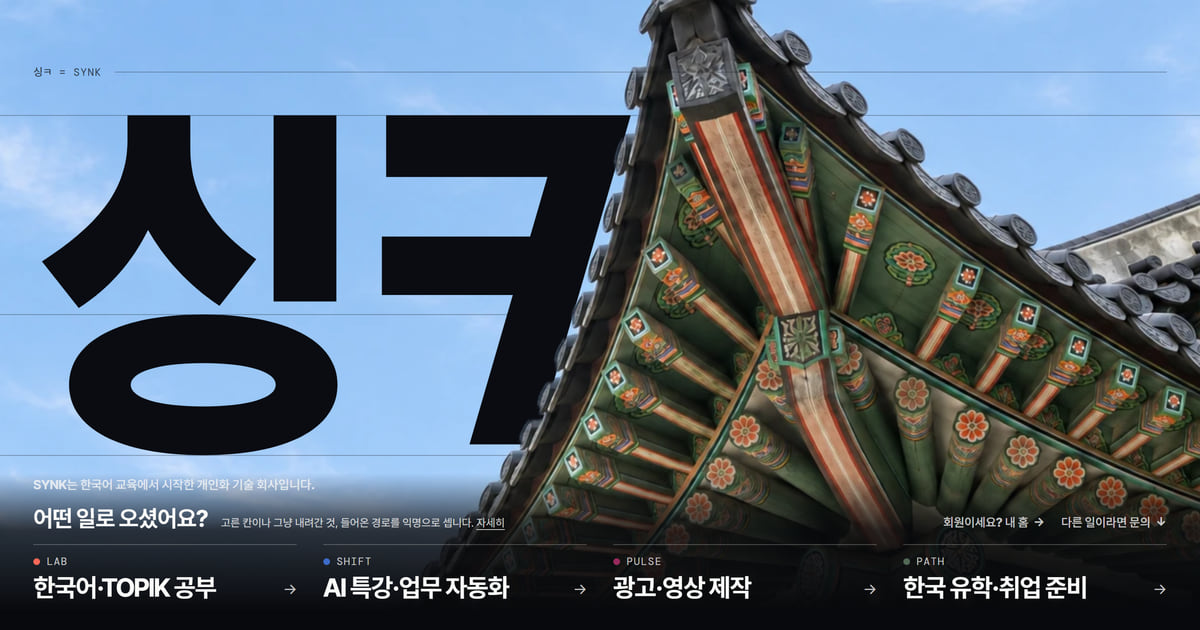
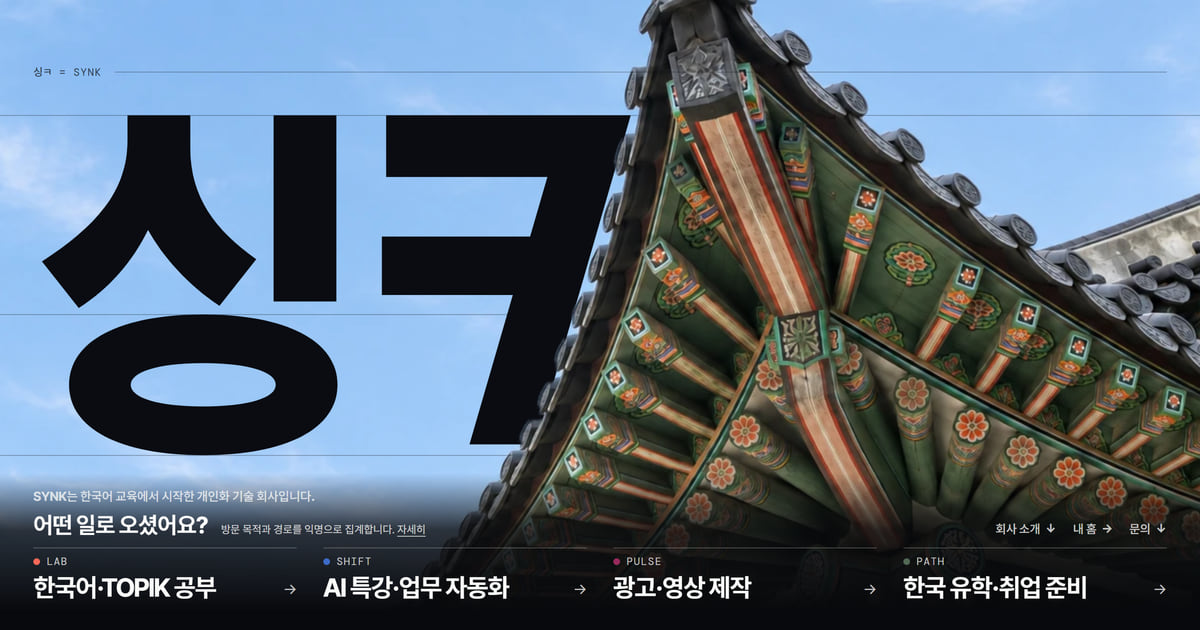
홈 입구 공개 뒤 검수 반영: 작은 줄에 「회사 소개」를 더하고 「내 홈 · 문의」로 줄임, 안내 글 「방문 목적과 경로를 익명으로 집계합니다.」, 입구를 지나 내려갔다가 돌아와 고른 칸도 「내려갔다가 칸을 고름」으로 세기, 들어온 곳에 X · 링크드인, 작은 노트북 여백, 공유 그림 다시 구움, 처리방침 방문 통계 문장(한 · 영)

Changed region(s): [[0.0308, 0.754, 0.4933, 0.8746], [0.7708, 0.8143, 0.9867, 0.8746], [0.5242, 0.8444, 0.74, 0.8746]]

diff --git a/privacy/index.html b/privacy/index.html
@@ -210,7 +210,7 @@
     <p>공개 안내 질문창은 방문자의 브라우저 안에서 질문과 공개 자료를 대조하여 답변을 표시합니다. 질문이나 대화 내용을 SYNK의 서버 또는 외부 AI 서비스로 전송하는 기능은 없으며, 대화 내용을 쿠키나 브라우저 저장소에 저장하지 않습니다. 화면의 대화는 새로 시작하거나 페이지를 새로고침하면 사라집니다.</p>
     <p>질문창의 입력을 학생 기록에 연결하거나 상담 신청으로 접수하거나 AI 모델 학습에 사용하는 기능은 없습니다. 이름·전화번호·학생 기록·비밀번호 등 개인정보나 민감한 내용은 입력하지 말아 주세요. 이 안내가 입력한 개인정보를 자동으로 가려 준다는 뜻은 아닙니다.</p>
     <p>외부 방문자 분석 서비스 Microsoft Clarity는 PULSE 소개 페이지(synk.im/pulse) 한 곳에서만 사용합니다(아래 설명). 그 밖의 기업 소개 홈페이지에는 광고 회사의 추적 스크립트나 외부 방문자 분석 서비스를 설치하지 않았습니다. SYNK가 직접 세는 기록은 아래 두 가지뿐입니다. 웹페이지와 파일을 전달하는 접속 정보의 처리는 이와 별개이며, synk.im의 호스팅 제공자인 GitHub의 개인정보 관련 안내를 함께 확인해 주세요.</p>
-    <p id="visitor-stats"><strong>홈 첫 화면 방문 통계(2026년 10월 30일부터):</strong> 첫 화면의 「어떤 일로 오셨어요?」에서 칸을 고르거나, 고르지 않고 아래로 내려가면 그 탭에서 한 번만 다음 항목을 SYNK의 Google Forms 기록 양식으로 보냅니다 — 칸을 골랐는지와 고른 칸, 보고 있던 쪽의 언어, 들어온 곳의 종류(직접·검색·인스타그램 같은 분류 이름), 화면 너비로 나눈 기기 종류(휴대폰 또는 컴퓨터·태블릿), 링크에 붙은 캠페인 꼬리표(예: ?from=ig-bio), 화면 버전. Google Forms가 받은 시각을 함께 기록합니다. 보내는 항목에 이름·이메일·IP 주소·쿠키·기기 식별값·전체 주소·이전 사이트 주소는 넣지 않으며, 방문자를 서로 잇는 번호도 만들지 않습니다. 다만 브라우저가 Google Forms로 직접 보내므로, 그 연결에 따르는 접속 정보(IP 주소 등)의 처리는 <a href="https://policies.google.com/privacy">Google 개인정보 안내</a>를 따릅니다. 같은 탭에서 두 번 세지 않도록 그 탭의 저장소(sessionStorage)에 표시 하나를 두고, 탭을 닫으면 사라집니다. 방문자가 무엇을 찾는지 알아 첫 화면과 안내를 고치는 데만 쓰고, 기록은 운영 계정만 봅니다. 브라우저의 전역 개인정보 신호(Global Privacy Control)가 켜져 있으면 보내지 않습니다. 홈 주소에 ?nocount=1을 붙여(synk.im/?nocount=1) 한 번 열면 그 브라우저에서는 보내지 않고(이 설정만 기기 저장소에 남습니다), synk.im/?nocount=0으로 되돌립니다. 사람을 알아볼 수 없는 기록이라 따로 보관 기한을 두지 않으며, 통계에 더 쓰지 않게 되면 지웁니다.</p>
+    <p id="visitor-stats"><strong>홈 첫 화면 방문 통계(2026년 10월 30일부터):</strong> 첫 화면의 「어떤 일로 오셨어요?」에서 칸을 고르거나, 고르지 않고 아래로 내려가면 그 탭에서 각각 한 번만 다음 항목을 SYNK의 Google Forms 기록 양식으로 보냅니다(내려갔다가 돌아와 고르면 그렇게 표시한 기록이 한 번 더 갑니다) — 칸을 골랐는지와 고른 칸, 보고 있던 쪽의 언어, 들어온 곳의 종류(직접·검색·인스타그램 같은 분류 이름), 화면 너비로 나눈 기기 종류(휴대폰 또는 컴퓨터·태블릿), 링크에 붙은 캠페인 꼬리표(예: ?from=ig-bio), 화면 버전. Google Forms가 받은 시각을 함께 기록합니다. 보내는 항목에 이름·이메일·IP 주소·쿠키·기기 식별값·전체 주소·이전 사이트 주소는 넣지 않으며, 방문자를 서로 잇는 번호도 만들지 않습니다. 다만 브라우저가 Google Forms로 직접 보내므로, 그 연결에 따르는 접속 정보(IP 주소 등)의 처리는 <a href="https://policies.google.com/privacy">Google 개인정보 안내</a>를 따릅니다. 같은 탭에서 같은 기록을 두 번 보내지 않도록 그 탭의 저장소(sessionStorage)에 표시 하나를 두고, 탭을 닫으면 사라집니다. 방문자가 무엇을 찾는지 알아 첫 화면과 안내를 고치는 데만 쓰고, 기록은 운영 계정만 봅니다. 브라우저의 전역 개인정보 신호(Global Privacy Control)가 켜져 있으면 보내지 않습니다. 홈 주소에 ?nocount=1을 붙여(synk.im/?nocount=1) 한 번 열면 그 브라우저에서는 보내지 않고(이 설정만 기기 저장소에 남습니다), synk.im/?nocount=0으로 되돌립니다. 사람을 알아볼 수 없는 기록이라 따로 보관 기한을 두지 않으며, 통계에 더 쓰지 않게 되면 지웁니다.</p>
     <p><strong>SNS 게시물 링크 기록:</strong> SYNK의 SNS 게시물에 붙은 링크 번호(주소의 synk_ref)로 들어온 경우에만, 그 번호와 방문·체험 시작·가입·문의가 있었는지를 SYNK 회사 서버(workspace.synk.im)로 보내 어느 게시물이 방문으로 이어졌는지 셉니다. 이름·이메일·글 내용·전체 주소는 보내지 않고, 링크 번호는 그 탭에서만 기억합니다.</p>
     <p id="pulse-clarity"><strong>PULSE 소개 페이지 이용 기록(Microsoft Clarity, 2026년 10월 31일부터):</strong> PULSE 소개 페이지(synk.im/pulse) 한 곳에서만, 안내와 광고를 개선하기 위해 Microsoft의 방문자 분석 서비스 Clarity를 사용합니다. 이 페이지를 보는 동안 브라우저가 다음 정보를 Microsoft 서버로 바로 보냅니다 — 스크롤 깊이, 누른 위치, 머문 시간, 마우스·터치 움직임(세션 재생·히트맵), 들어온 주소와 링크 꼬리표, 이전 사이트 주소, 브라우저·운영체제·기기 종류, 국가·도시 수준의 대략적 위치. 브라우저가 직접 보내므로 그 요청에 딸린 접속 정보(IP 주소 등)도 Microsoft가 처리합니다. 방문을 잇기 위해 제1자 쿠키(_clck, _clsk)와 제3자 쿠키(CLID, MUID, ANONCHK, MR, SM)를 사용합니다. 입력칸의 내용은 보내지 않고, 안내 질문창에 적은 질문과 화면의 대화도 가려서 보내지 않습니다. 페이지 글 가운데 숫자와 이메일 주소도 가려집니다. SYNK는 이 기록을 이 페이지를 고치고 광고 성과를 확인하는 데만 쓰며, 학생 기록이나 SYNK 계정과 연결하지 않습니다. 받는 곳은 Microsoft Corporation(미국)이고 Microsoft Azure에 저장됩니다. 세션 재생은 30일(일부 표본은 최대 9개월), 히트맵은 9개월 보관됩니다. 브라우저에서 쿠키를 차단하면 방문을 잇는 쿠키만 저장되지 않고 전송은 계속될 수 있습니다. 전송까지 막으려면 추적 차단 도구로 clarity.ms를 차단해 주세요. 막아도 페이지 이용에는 지장이 없습니다. Microsoft의 처리는 <a href="https://www.microsoft.com/privacy/privacystatement">Microsoft 개인정보처리방침</a>을 따르며, 쿠키 설명은 <a href="https://learn.microsoft.com/en-us/clarity/setup-and-installation/clarity-cookies">Clarity 쿠키 안내</a>에서 볼 수 있습니다.</p>
     <p>브라우저의 AI 도우미나 확장 프로그램을 직접 사용하는 경우에는 해당 도구의 정보 처리 기준이 별도로 적용됩니다. 답변의 복사 기능을 누르면 선택한 답변이 기기의 클립보드에 들어갑니다.</p>
@@ -221,7 +221,7 @@
       <p>This notice covers the SYNK company website and its public information guide. Separate services such as the Korean-name experience, Messenger consultation, application forms and student or guardian learning services have their own processing scope.</p>
       <p>The guide compares questions with public material in your browser. It has no function that sends questions or conversations to SYNK servers or external AI services, stores them in cookies or browser storage, connects them to student records, submits consultation requests or uses them to train AI models. On-screen conversations are cleared when you restart the guide or reload the page. Do not enter personal or sensitive information; the guide does not automatically redact it.</p>
       <p>The third-party visitor analytics service Microsoft Clarity is used on the PULSE page (synk.im/pulse) only, as described below. The rest of the company website has no advertising trackers or third-party visitor analytics. SYNK itself counts only the two things below. Hosting access information is separate; see the GitHub privacy statement for hosting of synk.im. Browser AI assistants and extensions you choose to use follow their own processing terms. Using Copy places the selected answer on your device clipboard.</p>
-      <p id="visitor-stats-en"><strong>Home page visit statistics (from 30 October 2026):</strong> when you pick an option under “What brings you here?” on the home page, or scroll past it without picking, the page sends once per tab to SYNK’s Google Forms record: whether you picked and which option, the page language, the kind of referrer (a category name such as direct, search or Instagram), the device type by screen width (phone, or computer and tablet), a campaign tag in the link (such as ?from=ig-bio) and the page version, together with the time Google Forms receives it. The record carries no name, email, IP address, cookie, device identifier, full address or previous site address, and no number links visitors together. Because your browser sends it straight to Google Forms, the connection details that come with that request (such as your IP address) are handled under the <a href="https://policies.google.com/privacy">Google privacy policy</a>. A mark in that tab’s sessionStorage prevents double counting and disappears when the tab closes. The records are used only to improve the home page and guide, and only the operations account sees them. Nothing is sent when Global Privacy Control is on. Open the home page once as synk.im/?nocount=1 (or synk.im/en/?nocount=1) to stop counting in that browser (only this setting is kept in local storage), and with ?nocount=0 on the same address to undo it. The records do not identify people, so there is no fixed retention period; we delete them once we no longer use them for statistics.</p>
+      <p id="visitor-stats-en"><strong>Home page visit statistics (from 30 October 2026):</strong> when you pick an option under “What brings you here?” on the home page, or scroll past it without picking, the page sends the following to SYNK’s Google Forms record, at most once each for a pick and for scrolling past in a tab (a pick made after scrolling past is marked as such): whether you picked and which option, the page language, the kind of referrer (a category name such as direct, search or Instagram), the device type by screen width (phone, or computer and tablet), a campaign tag in the link (such as ?from=ig-bio) and the page version, together with the time Google Forms receives it. The record carries no name, email, IP address, cookie, device identifier, full address or previous site address, and no number links visitors together. Because your browser sends it straight to Google Forms, the connection details that come with that request (such as your IP address) are handled under the <a href="https://policies.google.com/privacy">Google privacy policy</a>. A mark in that tab’s sessionStorage keeps the same record from being sent twice and disappears when the tab closes. The records are used only to improve the home page and guide, and only the operations account sees them. Nothing is sent when Global Privacy Control is on. Open the home page once as synk.im/?nocount=1 (or synk.im/en/?nocount=1) to stop counting in that browser (only this setting is kept in local storage), and with ?nocount=0 on the same address to undo it. The records do not identify people, so there is no fixed retention period; we delete them once we no longer use them for statistics.</p>
       <p><strong>SNS post links:</strong> only when you arrive through a link number from a SYNK social media post (synk_ref in the address), the page sends that number and whether a visit, trial start, sign-up or inquiry followed to SYNK’s company server (workspace.synk.im), to count which posts led to visits. No name, email, page text or full address is sent, and the link number is remembered only in that tab.</p>
       <p id="pulse-clarity-en"><strong>PULSE page usage records (Microsoft Clarity, from 31 October 2026):</strong> on the PULSE page (synk.im/pulse) only, SYNK uses Microsoft's visitor analytics service Clarity to improve the page and its advertising. While you view that page your browser sends the following straight to Microsoft's servers: scroll depth, where you click, time on the page, mouse and touch movement (session replay and heatmaps), the page address and its link tags, the previous site address, browser, operating system and device type, and approximate location at country or city level. Because your browser sends it directly, connection details that come with the request (such as your IP address) are also handled by Microsoft. Clarity uses first-party cookies (_clck, _clsk) and third-party cookies (CLID, MUID, ANONCHK, MR, SM) to connect visits. The contents of input boxes are not sent, and questions typed into the public guide and the on-screen conversation are masked and not sent. Numbers and email addresses in page text are masked too. SYNK uses these records only to improve this page and check advertising results, and does not link them to student records or SYNK accounts. The recipient is Microsoft Corporation (United States), and the data is stored on Microsoft Azure. Session replays are kept for 30 days (a sample for up to 9 months) and heatmaps for 9 months. Blocking cookies in your browser only stops the cookies that connect visits; sending may continue. To stop the sending too, block clarity.ms with a tracker blocker. The page still works either way. Microsoft's processing follows the <a href="https://www.microsoft.com/privacy/privacystatement">Microsoft Privacy Statement</a>, and its cookies are described in the <a href="https://learn.microsoft.com/en-us/clarity/setup-and-installation/clarity-cookies">Clarity cookie guide</a>.</p>
       <p>Emails, Messenger messages, forms and other linked services are processed separately from this guide. For privacy enquiries, contact hello@synk.im and identify the relevant service without sending passwords or verification codes. The LAB service policy is set out below.</p>

diff --git a/assets/v10/home-ask.js b/assets/v10/home-ask.js
@@ -1,6 +1,7 @@
 // 홈 첫 화면 「어떤 일로 오셨어요?」 — 방문자가 고른 칸을 익명으로 센다(2026-10-30, 유호님 「방문자가 왜 왔는지 통계조사도」).
 // 받는 곳: SYNK 운영 계정의 구글 폼 「synk.im 방문 목적(익명)」. 폼의 응답 탭 요약이 곧 통계다(질문마다 원그래프).
-// 한 탭에서 한 번만 센다 — 처음 누른 칸(고름) 또는 고르지 않고 입구를 지나 내려간 것(지나침) 가운데 먼저 일어난 하나. 분모 = 고름 + 지나침.
+// 한 탭에서 고름 · 지나침을 한 번씩만 센다. 고르지 않고 입구를 지나 내려가면 바로 지나침을 보내고(앱 안 브라우저는 창을 닫을 때 신호가 없을 수 있어 떠날 때로 미루지 않는다),
+//   그 뒤 돌아와 칸을 고르면 「내려갔다가 칸을 고름」을 한 줄 더 보낸다. 읽는 법: 고른 사람 = 칸을 고름 + 내려갔다가 칸을 고름 · 끝내 안 고른 사람 = 고르지 않고 내려감 − 내려갔다가 칸을 고름.
 //   (보기만 하고 떠난 것은 세지 않는다 — 사람이 보지 않는 미리 불러오기 · 검색 로봇과 가려낼 수 없어서다.)
 // 보내는 것: 고름/지나침 · 고른 칸 · 쪽 언어(한국어 쪽/영어 쪽) · 들어온 곳(분류 이름만) · 기기(화면 넓이로 둘 중 하나) · 링크 꼬리표(?from=) · 판.
 //   구글 폼이 받은 시각을 더한다. 이 목록은 처리방침 「홈페이지 방문 통계」 절과 같아야 한다.
@@ -17,15 +18,15 @@ export const FORM = {
 export const VERSION = 'gate-v1';
 
 // 폼 보기 글(한국어 — 통계를 읽는 사람은 유호님이다). 영어 쪽도 같은 글로 보낸다. 화면의 칸 이름을 다듬어도 이 글은 그대로 둔다.
-export const KINDS = { pick: '칸을 고름', pass: '고르지 않고 내려감' };
+export const KINDS = { pick: '칸을 고름', pass: '고르지 않고 내려감', back: '내려갔다가 칸을 고름' };
 export const PICKS = {
   lab: 'LAB · 한국어', shift: 'SHIFT · AI 강의·자동화', pulse: 'PULSE · 광고·영상', path: 'PATH · 유학·취업',
-  app: '내 홈(회원)', other: '문의',
+  app: '내 홈(회원)', other: '문의', company: '회사 소개',
 };
 export const LANGS = { ko: '한국어 쪽', en: '영어 쪽' };
 export const SOURCES = {
   direct: '직접', search: '검색', instagram: '인스타그램', youtube: '유튜브', tiktok: '틱톡', threads: '스레드',
-  facebook: '페이스북', blog: '블로그', other: '다른 사이트', internal: 'SYNK 안',
+  facebook: '페이스북', x: 'X', linkedin: '링크드인', blog: '블로그', other: '다른 사이트', internal: 'SYNK 안',
 };
 export const DEVICES = { phone: '휴대폰', wide: '컴퓨터·태블릿' };
 
@@ -36,11 +37,13 @@ const HOSTS = [
   [/(^|\.)tiktok\.com$/, 'tiktok'],
   [/(^|\.)threads\.(net|com)$/, 'threads'],
   [/(^|\.)(facebook\.com|fb\.me|fb\.com)$/, 'facebook'],
+  [/(^|\.)(x\.com|twitter\.com|t\.co)$/, 'x'],
+  [/(^|\.)(linkedin\.com|lnkd\.in)$/, 'linkedin'],
   [/(^|\.)(blog\.naver\.com|tistory\.com|brunch\.co\.kr|medium\.com)$/, 'blog'],
   [/(^|\.)(google\.[a-z.]+|bing\.com|search\.naver\.com|daum\.net|search\.yahoo\.[a-z.]+|duckduckgo\.com|baidu\.com|yandex\.[a-z.]+|ecosia\.org|search\.brave\.com)$/, 'search'],
 ];
 // 꼬리표 이름 → 들어온 곳(링크에 ?from=ig-… 처럼 붙인 경우 referrer보다 앞선다 — 앱 안 브라우저는 referrer를 자주 비운다)
-const TAGS = [[/^(ig|insta)/, 'instagram'], [/^(yt|youtube)/, 'youtube'], [/^(tt|tiktok)/, 'tiktok'], [/^(th|threads)/, 'threads'], [/^(fb|facebook)/, 'facebook'], [/^(blog|tistory|naver)/, 'blog']];
+const TAGS = [[/^(ig|insta)/, 'instagram'], [/^(yt|youtube)/, 'youtube'], [/^(tt|tiktok)/, 'tiktok'], [/^(th|threads)/, 'threads'], [/^(fb|facebook)/, 'facebook'], [/^(x|twitter)(-|$)/, 'x'], [/^(li|linkedin)(-|$)/, 'linkedin'], [/^(blog|tistory|naver)/, 'blog']];
 const SELF_TAGS = /^(self|qa)$/;
 const BOTS = /bot|crawl|spider|slurp|preview|facebookexternalhit|headless|lighthouse|pagespeed/i;
 
@@ -68,11 +71,11 @@ export const deviceOf = width => (width <= 700 ? 'phone' : 'wide');
 
 /** 폼에 보낼 값. 허용 목록 밖의 값이면 null(보내지 않는다). */
 export function payload(kind, pick, ctx, form = FORM) {
-  if (!KINDS[kind] || (kind === 'pick') !== Boolean(PICKS[pick])) return null;
+  if (!KINDS[kind] || (kind !== 'pass') !== Boolean(PICKS[pick])) return null;
   if (!LANGS[ctx.lang] || !SOURCES[ctx.source] || !DEVICES[ctx.device]) return null;
   const p = new URLSearchParams();
   p.set(form.kind, KINDS[kind]);
-  if (kind === 'pick') p.set(form.pick, PICKS[pick]);
+  if (kind !== 'pass') p.set(form.pick, PICKS[pick]);
   p.set(form.lang, LANGS[ctx.lang]);
   p.set(form.source, SOURCES[ctx.source]);
   p.set(form.device, DEVICES[ctx.device]);
@@ -108,16 +111,18 @@ export function createCounter({ win = globalThis.window, doc = globalThis.docume
     device: deviceOf(win.innerWidth),
     from: fromTag(win.location.href),
   };
-  let done = false;
-  try { done = win.sessionStorage.getItem(DONE_KEY) === '1'; } catch {}
-  /** 고름 또는 지나침을 한 탭에 한 번만 보낸다. 보냈으면 true. */
+  // 이 탭의 상태: '' 아직 없음 · 'pass' 지나침을 보냄 · '1' 칸을 고름(끝). 다시 불러와도 이어진다.
+  let state = '';
+  try { state = win.sessionStorage.getItem(DONE_KEY) || ''; } catch {}
+  /** 고름 또는 지나침을 보낸다. 고름은 탭에 한 번, 지나침도 한 번이고, 지나침 뒤의 고름은 표시를 달리해 보낸다. 보냈으면 true. */
   function send(kind, pick) {
-    if (!on || done) return false;
+    if (!on || state === '1') return false;
     if (doc.visibilityState && doc.visibilityState !== 'visible') return false;
-    const body = payload(kind, pick, ctx, form);
+    if (kind === 'pass' && state) return false;
+    const body = payload(kind === 'pick' && state === 'pass' ? 'back' : kind, pick, ctx, form);
     if (!body) return false;
-    done = true;
-    try { win.sessionStorage.setItem(DONE_KEY, '1'); } catch {}
+    state = kind === 'pass' ? 'pass' : '1';
+    try { win.sessionStorage.setItem(DONE_KEY, state); } catch {}
     try {
       fetcher(form.action, { method: 'POST', mode: 'no-cors', credentials: 'omit', referrerPolicy: 'no-referrer', keepalive: true, body }).catch(() => {});
     } catch {}

diff --git a/en/index.html b/en/index.html
@@ -10,7 +10,7 @@
 <link rel="canonical" href="https://synk.im/en/">
 <link rel="alternate" hreflang="ko" href="https://synk.im/"><link rel="alternate" hreflang="en" href="https://synk.im/en/"><link rel="alternate" hreflang="mn" href="https://synk.im/mn/"><link rel="alternate" hreflang="x-default" href="https://synk.im/">
 <meta property="og:type" content="website"><meta property="og:url" content="https://synk.im/en/"><meta property="og:title" content="SYNK — AI that gets to know you the more you use it"><meta property="og:description" content="SYNK builds Atlas, a personalization engine that gets to know you the more you use it. We use it for a K-drama role-play where you speak Korean as one of the cast, AI lectures and work automation, ads and model videos, and preparing to study or work in Korea.">
-<meta property="og:image" content="https://synk.im/assets/v10/og/home-en.jpg?v=440a44bf4713"><meta property="og:image:width" content="1200"><meta property="og:image:height" content="630"><meta property="og:image:alt" content="The SYNK home page: the word SYNK in large Korean letters beneath the eaves of a hanok roof, against a daytime sky"><meta name="twitter:card" content="summary_large_image">
+<meta property="og:image" content="https://synk.im/assets/v10/og/home-en.jpg?v=806a4fd2e528"><meta property="og:image:width" content="1200"><meta property="og:image:height" content="630"><meta property="og:image:alt" content="The SYNK home page: the word SYNK in large Korean letters beneath the eaves of a hanok roof, against a daytime sky"><meta name="twitter:card" content="summary_large_image">
 <link rel="icon" type="image/png" sizes="16x16" href="/assets/favicon-synk-20260919-16.png"><link rel="icon" type="image/png" sizes="32x32" href="/assets/favicon-synk-20260919-32.png"><link rel="icon" type="image/png" sizes="48x48" href="/assets/favicon-synk-20260919-48.png">
 <link rel="preload" href="/assets/v10/suit-v10.woff2" as="font" type="font/woff2" crossorigin>
 <link rel="stylesheet" href="/assets/v10/site.css?v=bf743bfce9da">
@@ -19,8 +19,8 @@
 <script>(()=>{const t=new Date(),h=t.getHours()+t.getMinutes()/60,s=h>=6&&h<17?'day':(h>=17&&h<19.5)||(h>=5&&h<6)?'sunset':'night',d=document.documentElement;d.dataset.sky=s;for(const[m,f]of[['(min-width:701px) and (min-aspect-ratio:4/5)',''],['(max-width:700px),(max-aspect-ratio:4/5)','-portrait']]){const l=document.createElement('link');l.rel='preload';l.as='image';l.href='/assets/korean-eaves-'+s+f+'-20260927.webp';l.media=m;document.head.appendChild(l)}})()</script>
 
 <script type="module" src="/assets/v10/site.js?v=cb64453758c6"></script>
-<link rel="stylesheet" href="/assets/v10/home-ask.css?v=d72e286e5532">
-<script type="module" src="/assets/v10/home-ask.js?v=79ab3d30a939"></script>
+<link rel="stylesheet" href="/assets/v10/home-ask.css?v=258ffd85db11">
+<script type="module" src="/assets/v10/home-ask.js?v=cff89f300d1a"></script>
 <link rel="stylesheet" href="/assets/v10/drama.css?v=8e50e731c481">
 <script type="module" src="/assets/v10/drama.js?v=c0cb6b436273"></script>
 <script type="module" src="/social-conversion.js?v=07c3d1bb5c11"></script>
@@ -44,8 +44,8 @@
 <nav class="gate-doors visit" aria-labelledby="visit-q" data-visit><p class="gate-kicker"><span>SYNK is a personalization technology company that started in Korean-language education.</span></p>
 <p class="visit-q" id="visit-q">What brings you here?</p>
 <ul class="visit-doors"><li><a class="visit-door" href="/en/lab/" data-pick="lab"><small><i class="dot dot-lab" aria-hidden="true"></i>LAB</small><strong>Learn Korean &amp; TOPIK</strong><b class="arr" aria-hidden="true">→</b></a></li><li><a class="visit-door" href="/en/shift/" data-pick="shift"><small><i class="dot dot-shift" aria-hidden="true"></i>SHIFT</small><strong>AI lectures &amp; automation</strong><b class="arr" aria-hidden="true">→</b></a></li><li><a class="visit-door" href="/en/pulse/" data-pick="pulse"><small><i class="dot dot-pulse" aria-hidden="true"></i>PULSE</small><strong>Ads &amp; video</strong><b class="arr" aria-hidden="true">→</b></a></li><li><a class="visit-door" href="/en/path/" data-pick="path"><small><i class="dot dot-path" aria-hidden="true"></i>PATH</small><strong>Study or work in Korea</strong><b class="arr" aria-hidden="true">→</b></a></li></ul>
-<div class="visit-more"><a href="/account/platform.html#home" data-pick="app">Member? My home<span class="arr" aria-hidden="true">→</span></a><a href="#contact" data-pick="other">Something else? Contact us<span class="arr" aria-hidden="true">↓</span></a></div>
-<p class="visit-note">We anonymously count your pick, or that you scrolled on, and where you came from. <a href="/privacy/#visitor-stats-en">Details</a></p></nav>
+<div class="visit-more"><a href="#top" data-pick="company">About SYNK<span class="arr" aria-hidden="true">↓</span></a><a href="/account/platform.html#home" data-pick="app">My home<span class="arr" aria-hidden="true">→</span></a><a href="#contact" data-pick="other">Contact us<span class="arr" aria-hidden="true">↓</span></a></div>
+<p class="visit-note">We anonymously count why and how people visit. <a href="/privacy/#visitor-stats-en">Details</a></p></nav>
 </section><section class="cover" id="top"><span id="hero-introduction" class="sr-only" aria-hidden="true"></span><div class="wrap">
 <div class="cover-top"><p class="label"><i class="dot" aria-hidden="true"></i><span class="en">SYNK</span><span>Personalization engine</span></p><span class="cover-rule" aria-hidden="true"></span><p class="mono cover-brands">LAB · SHIFT · PULSE · PATH</p></div>
 <div class="cover-main"><h1 class="cover-title"><span>AI that gets to know you</span> <span>the more you use it</span></h1>

diff --git a/index.html b/index.html
@@ -11,7 +11,7 @@
 <link rel="canonical" href="https://synk.im/">
 <link rel="alternate" hreflang="ko" href="https://synk.im/"><link rel="alternate" hreflang="en" href="https://synk.im/en/"><link rel="alternate" hreflang="mn" href="https://synk.im/mn/"><link rel="alternate" hreflang="x-default" href="https://synk.im/">
 <meta property="og:type" content="website"><meta property="og:url" content="https://synk.im/"><meta property="og:title" content="SYNK — 쓸수록 나를 아는 AI를 만듭니다"><meta property="og:description" content="SYNK는 쓸수록 나를 아는 개인화 엔진 아틀라스를 만듭니다. K드라마 속 배역이 되어 말하는 한국어 상황극, AI 강의와 업무 자동화, 광고·모델 영상, 한국 유학·취업 준비에 같은 엔진을 씁니다.">
-<meta property="og:image" content="https://synk.im/assets/v10/og/home-ko.jpg?v=e5b24ec3107f"><meta property="og:image:width" content="1200"><meta property="og:image:height" content="630"><meta property="og:image:alt" content="낮 하늘 아래 한옥 처마와 큰 글자 「싱ㅋ」 — SYNK 홈페이지 첫 화면"><meta name="twitter:card" content="summary_large_image">
+<meta property="og:image" content="https://synk.im/assets/v10/og/home-ko.jpg?v=708bc4c1e028"><meta property="og:image:width" content="1200"><meta property="og:image:height" content="630"><meta property="og:image:alt" content="낮 하늘 아래 한옥 처마와 큰 글자 「싱ㅋ」 — SYNK 홈페이지 첫 화면"><meta name="twitter:card" content="summary_large_image">
 <link rel="icon" type="image/png" sizes="16x16" href="/assets/favicon-synk-20260919-16.png"><link rel="icon" type="image/png" sizes="32x32" href="/assets/favicon-synk-20260919-32.png"><link rel="icon" type="image/png" sizes="48x48" href="/assets/favicon-synk-20260919-48.png">
 <link rel="preload" href="/assets/v10/suit-v10.woff2" as="font" type="font/woff2" crossorigin>
 <link rel="stylesheet" href="/assets/v10/site.css?v=bf743bfce9da">
@@ -20,8 +20,8 @@
 <script>(()=>{const t=new Date(),h=t.getHours()+t.getMinutes()/60,s=h>=6&&h<17?'day':(h>=17&&h<19.5)||(h>=5&&h<6)?'sunset':'night',d=document.documentElement;d.dataset.sky=s;for(const[m,f]of[['(min-width:701px) and (min-aspect-ratio:4/5)',''],['(max-width:700px),(max-aspect-ratio:4/5)','-portrait']]){const l=document.createElement('link');l.rel='preload';l.as='image';l.href='/assets/korean-eaves-'+s+f+'-20260927.webp';l.media=m;document.head.appendChild(l)}})()</script>
 
 <script type="module" src="/assets/v10/site.js?v=cb64453758c6"></script>
-<link rel="stylesheet" href="/assets/v10/home-ask.css?v=d72e286e5532">
-<script type="module" src="/assets/v10/home-ask.js?v=79ab3d30a939"></script>
+<link rel="stylesheet" href="/assets/v10/home-ask.css?v=258ffd85db11">
+<script type="module" src="/assets/v10/home-ask.js?v=cff89f300d1a"></script>
 <link rel="stylesheet" href="/assets/v10/drama.css?v=8e50e731c481">
 <script type="module" src="/assets/v10/drama.js?v=c0cb6b436273"></script>
 <script type="module" src="/social-conversion.js?v=07c3d1bb5c11"></script>
@@ -45,8 +45,8 @@
 <nav class="gate-doors visit" aria-labelledby="visit-q" data-visit><p class="gate-kicker"><span>SYNK는 한국어 교육에서 시작한 개인화 기술 회사입니다.</span></p>
 <p class="visit-q" id="visit-q">어떤 일로 오셨어요?</p>
 <ul class="visit-doors"><li><a class="visit-door" href="/lab/" data-pick="lab"><small><i class="dot dot-lab" aria-hidden="true"></i>LAB</small><strong>한국어·TOPIK 공부</strong><b class="arr" aria-hidden="true">→</b></a></li><li><a class="visit-door" href="/shift/" data-pick="shift"><small><i class="dot dot-shift" aria-hidden="true"></i>SHIFT</small><strong>AI 특강·업무 자동화</strong><b class="arr" aria-hidden="true">→</b></a></li><li><a class="visit-door" href="/pulse/" data-pick="pulse"><small><i class="dot dot-pulse" aria-hidden="true"></i>PULSE</small><strong>광고·영상 제작</strong><b class="arr" aria-hidden="true">→</b></a></li><li><a class="visit-door" href="/path/" data-pick="path"><small><i class="dot dot-path" aria-hidden="true"></i>PATH</small><strong>한국 유학·취업 준비</strong><b class="arr" aria-hidden="true">→</b></a></li></ul>
-<div class="visit-more"><a href="/account/platform.html#home" data-pick="app">회원이세요? 내 홈<span class="arr" aria-hidden="true">→</span></a><a href="#contact" data-pick="other">다른 일이라면 문의<span class="arr" aria-hidden="true">↓</span></a></div>
-<p class="visit-note">고른 칸이나 그냥 내려간 것, 들어온 경로를 익명으로 셉니다. <a href="/privacy/#visitor-stats">자세히</a></p></nav>
+<div class="visit-more"><a href="#top" data-pick="company">회사 소개<span class="arr" aria-hidden="true">↓</span></a><a href="/account/platform.html#home" data-pick="app">내 홈<span class="arr" aria-hidden="true">→</span></a><a href="#contact" data-pick="other">문의<span class="arr" aria-hidden="true">↓</span></a></div>
+<p class="visit-note">방문 목적과 경로를 익명으로 집계합니다. <a href="/privacy/#visitor-stats">자세히</a></p></nav>
 </section><section class="cover" id="top"><span id="hero-introduction" class="sr-only" aria-hidden="true"></span><div class="wrap">
 <div class="cover-top"><p class="label"><i class="dot" aria-hidden="true"></i><span class="en">SYNK</span><span>개인화 엔진</span></p><span class="cover-rule" aria-hidden="true"></span><p class="mono cover-brands">LAB · SHIFT · PULSE · PATH</p></div>
 <div class="cover-main"><h1 class="cover-title"><span>쓸수록 나를 아는</span> <span>AI를 만듭니다</span></h1>

diff --git a/mn/index.html b/mn/index.html
@@ -10,7 +10,7 @@
 <link rel="canonical" href="https://synk.im/mn/">
 <link rel="alternate" hreflang="ko" href="https://synk.im/"><link rel="alternate" hreflang="en" href="https://synk.im/en/"><link rel="alternate" hreflang="mn" href="https://synk.im/mn/"><link rel="alternate" hreflang="x-default" href="https://synk.im/">
 <meta property="og:type" content="website"><meta property="og:url" content="https://synk.im/mn/"><meta property="og:title" content="SYNK-ийн танилцуулга — TOPIK бэлтгэл, солонгос хэлний сургалт"><meta property="og:description" content="SYNK нь солонгос хэлний сургалтаас үүсэлтэй, хүн бүрд тохирсон сургалтын технологи хөгжүүлдэг компани юм. SYNK WORLD дахь үнэгүй TOPIK дасгал, TOPIK 4-р түвшний онлайн анги, Улаанбаатарт сургалтын төв нээх зорилгоо танилцуулж байна.">
-<meta property="og:image" content="https://synk.im/assets/v10/og/home-en.jpg?v=440a44bf4713"><meta property="og:image:width" content="1200"><meta property="og:image:height" content="630"><meta property="og:image:alt" content="SYNK-ийн танилцуулга"><meta name="twitter:card" content="summary_large_image">
+<meta property="og:image" content="https://synk.im/assets/v10/og/home-en.jpg?v=806a4fd2e528"><meta property="og:image:width" content="1200"><meta property="og:image:height" content="630"><meta property="og:image:alt" content="SYNK-ийн танилцуулга"><meta name="twitter:card" content="summary_large_image">
 <link rel="icon" type="image/png" sizes="16x16" href="/assets/favicon-synk-20260919-16.png"><link rel="icon" type="image/png" sizes="32x32" href="/assets/favicon-synk-20260919-32.png"><link rel="icon" type="image/png" sizes="48x48" href="/assets/favicon-synk-20260919-48.png">
 <link rel="preload" href="/assets/v10/inter-tight-cyrillic.woff2" as="font" type="font/woff2" crossorigin>
 <link rel="stylesheet" href="/assets/v10/site.css?v=bf743bfce9da">

diff --git a/assets/v10/home-ask.css b/assets/v10/home-ask.css
@@ -47,3 +47,9 @@ body[data-page="home"] .gate-top .brands,body[data-page="home"] .bar.on-dark .ba
   .visit-note{margin-top:2px}
 }
 @media (max-width:700px) and (max-height:700px){.visit .gate-kicker{display:none}}
+/* 작은 노트북(1366×768 · 1280×720): 문 묶음을 16px 줄여 싱ㅋ 아래끝과의 틈을 넓힌다. 회사 한 줄은 첫 화면의 유일한 회사 설명이라 숨기지 않는다 */
+@media (min-width:1101px) and (max-height:820px){
+  .visit .gate-kicker{margin-bottom:4px}
+  .visit-q{margin-bottom:8px}
+  .visit-door{padding-top:10px}
+}
